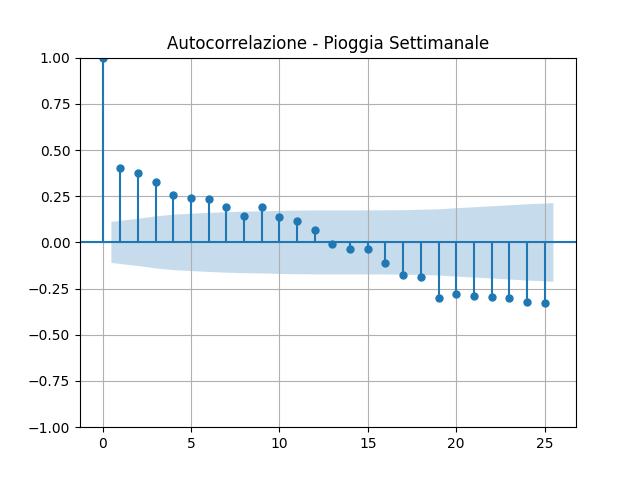
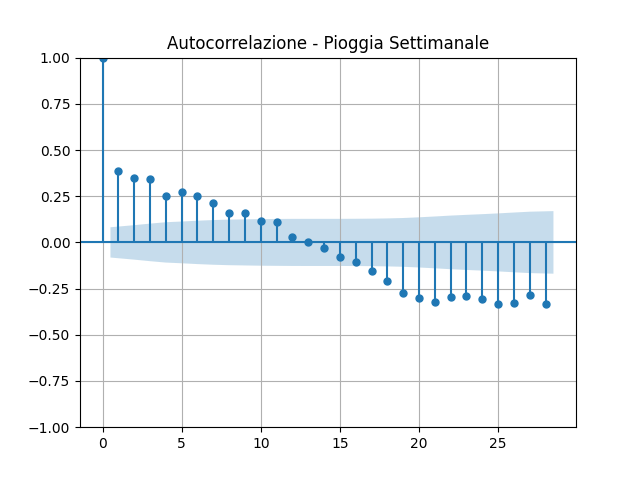
change docs

diff --git a/src/main.py b/src/main.py
@@ -38,13 +38,13 @@ trainy = torch.FloatTensor(trainy.squeeze())
 
 set_seed(42)
 model = NeuralForecaster()
-#model = train_model(model, trainX, trainy)
+model = train_model(model, trainX, trainy)
 # Predizione sui dati di training
-#train_pred = model(trainX).detach().numpy()
+train_pred = model(trainX).detach().numpy()
 # Forecasting ricorsivo
-#forecastNN = recursive_forecast(model, trainX[-1], len(test))
+forecastNN = recursive_forecast(model, trainX[-1], len(test))
 # Plot dei risultati
-#plot_results(forecastNN, test)
+plot_results(forecastNN, test)
 # Valutazione
 print("NN Accuracy: ")
 #print(forecast_accuracy(forecastNN, test))
@@ -67,5 +67,5 @@ plot_xgb_forecast(test, forecastXGB)
 print("XGBoost Accuracy: ")
 print(forecast_accuracy(forecastXGB, test))
 
-#plot_forecast_comparison(test, forecastStats, forecastNN, forecastXGB)
+plot_forecast_comparison(test, forecastStats, forecastNN, forecastXGB)
 

diff --git a/src/preprocessing.py b/src/preprocessing.py
@@ -8,7 +8,7 @@ from statsmodels.graphics.tsaplots import plot_acf
 def load_and_plot_csv(path):
     df = pd.read_csv(path)
     plt.figure(figsize=(12,6))
-    for col in df.columns[1:]:  # salta la colonna 'Settimana'
+    for col in df.columns[:]:
         plt.plot(df.index, df[col], label=col)
     plt.title("Pioggia Settimanale per Anno - Emilia-Romagna")
     plt.xlabel("Settimana (1-52)")

diff --git a/docs/forecasting_neurale.md b/docs/forecasting_neurale.md
@@ -1,6 +1,6 @@
 ---
 layout: default
-title: NN-model
+title: RNN
 nav_order: 4
 ---
 # Previsione di Pioggia Settimanale - Rete Neurale (2024)
@@ -37,35 +37,6 @@ NeuralForecaster(
 A partire dalle ultime 52 settimane del set di addestramento, il modello genera previsioni passo-passo per l’intero 
 anno successivo (52 settimane).
 
-### Codice di Implementazione (estratto)
-```
-class NeuralForecaster(nn.Module):
-    def __init__(self, input_size=52):
-        super(NeuralForecaster, self).__init__()
-        self.network = nn.Sequential(
-            nn.Linear(52, 32),
-            nn.ReLU(),
-            nn.Linear(32, 16),
-            nn.ReLU(),
-            nn.Linear(16, 1)
-        )
-
-def train_model(model, X, y, lr=0.0007, n_epochs=1000, batch_size=1):
-    ...
-    # Ottimizzazione e stampa della perdita ogni 100 epoche
-    ...
-
-def recursive_forecast(model, initial_input, n_steps):
-    ...
-    # Forecasting autoregressivo
-    ...
-
-def plot_results(forecast, test):
-    ...
-    # Visualizzazione grafico
-    ...
-```
-
 ### Visualizzazione dei Risultati
 ![NNplot.png](img/NNplot.png)
 
@@ -86,18 +57,12 @@ def plot_results(forecast, test):
 
 
 **Interpretazione**:
-- Il modello presenta un MAPE contenuto, ma superiore rispetto al modello SARIMAX.
+- Il modello prevede molto bene in media: valori vicini a quelli reali (MAPE e ME molto buoni).
 
-- L'RMSE è leggermente più alto rispetto al modello statistico.
+- È ancora timido nei picchi: alcuni salti non vengono seguiti.
 
-- La correlazione 0.30 indica che il modello neurale ha appreso solo parzialmente le dinamiche temporali 
-della serie, suggerendo potenziali margini di miglioramento (es. aumento dati, tuning iperparametri, reti ricorrenti 
-o convoluzionali).
+- La correlazion di 0.30 è  segno che la rete inizia a capire l'andamento, 
+ma non lo segue ancora con decisione.
 
-### Conclusione
 La rete neurale sviluppata ha mostrato una buona capacità di previsione in termini di errore assoluto, 
 ma una correlazione temporale più debole rispetto al modello SARIMAX.
-Possibili miglioramenti futuri includono:
-- Ottimizzazione dell’architettura e dei parametri, 
-- Utilizzo di modelli più adatti alle serie temporali (es. LSTM, GRU), 
-- Data augmentation o arricchimento con variabili esogene (meteo, temperatura, etc).

diff --git a/docs/forecasting_statistico.md b/docs/forecasting_statistico.md
@@ -1,17 +1,9 @@
 ---
 layout: default
-title: stats-model
+title: SARIMAX
 nav_order: 3
 ---
 # Previsione di Pioggia Settimanale - Modello SARIMAX (2024)
-
-## Obiettivo del Progetto
-
-Questo progetto ha l'obiettivo di prevedere la quantità settimanale di pioggia in millimetri per l'anno 2024
-tramite l'uso di un modello **SARIMAX** (Seasonal AutoRegressive Integrated Moving Average with eXogenous regressors).
-La previsione si basa su dati storici e include la componente stagionale su base annuale (52 settimane).
-
----
 
 ## Teoria del Modello SARIMAX
 
@@ -47,7 +39,6 @@ import matplotlib.pyplot as plt
 def run_sarima(train, test, order=(0, 0, 0), seasonal_order=(1, 1, 0, 52)):
     model = SARIMAX(train, order=order, seasonal_order=seasonal_order)
     fit = model.fit()
-    pred_in_sample = fit.predict(0, len(train))
     forecast = fit.forecast(steps=len(test))
 
     plt.plot(test, label="actual")
@@ -90,13 +81,5 @@ Il RMSE suggerisce che l’errore assoluto medio quadratico è moderato.
 Il valore di correlazione di circa 0.46 implica una correlazione discreta tra valori previsti e osservati,
 ma indica che c'è spazio per migliorare la coerenza temporale del modello.
 
-### Conclusione
 Il modello SARIMAX applicato ha dimostrato una buona capacità di previsione delle precipitazioni settimanali, 
-specialmente nel cogliere la componente stagionale. Ulteriori miglioramenti potrebbero essere ottenuti:
-
-Ottimizzando i parametri del modello (p, d, q, ecc.),
-
-Introducendo variabili esogene (come temperatura o umidità),
-
-Applicando tecniche di ensemble learning o reti neurali ricorrenti (RNN).
-
+specialmente nel cogliere la componente stagionale.

diff --git a/docs/forecasting_decision_tree.md b/docs/forecasting_decision_tree.md
@@ -1,6 +1,6 @@
 ---
 layout: default
-title: XGBoost-model
+title: XGBoost
 nav_order: 5
 ---
 # Previsione di Pioggia Settimanale - XGBoost (2024)
@@ -71,18 +71,8 @@ print(forecast_accuracy(forecast, test))
 **Interpretazione**:
 - Il MAPE è leggermente superiore rispetto a SARIMAX e RNN, suggerendo minore precisione relativa.
 
-- RMSE e MAE sono i più alti tra i tre modelli analizzati.
+- La correlazione di 0.35 segnala una media capacità del modello di seguire l’andamento temporale dei dati.
 
-- La correlazione di 0.20 segnala una bassa capacità del modello di seguire l’andamento temporale dei dati, 
-anche se la struttura degli errori è relativamente bilanciata.
-
-### Conclusione
 Il modello XGBoost è potente ma in questo caso mostra prestazioni inferiori rispetto al modello SARIMAX 
 e alla rete neurale, soprattutto per quanto riguarda la coerenza temporale. Tuttavia, resta utile come baseline 
 o in combinazione con altri modelli:
-
-- Potenziale di miglioramento con tuning degli iperparametri,
-
-- Possibilità di includere variabili esogene o tecniche ensemble,
-
-- Alternativa interessante per combinare capacità predittive non lineari e flessibilità.

diff --git a/docs/conclusions.md b/docs/conclusions.md
@@ -15,13 +15,13 @@ Di seguito un confronto visivo delle previsioni:
 
 ---
 
-## 📈 Risultati Principali
+## Risultati Principali
 
-| Modello          | MAPE (%) | MAE (mm) | RMSE (mm) | Corr     |
-|------------------|----------|----------|-----------|----------|
-| **SARIMAX**      | **1.93** | 8.63     | 11.42     | **0.46** |
-| **Neural Net**   | 2.31     | 10.25    | 12.98     | 0.17     |
-| **XGBoost**      | 2.94     | 10.60    | 13.54     | 0.18     |
+| Modello          | MAPE (%) | MAE (mm) | RMSE (mm)   | Corr     |
+|------------------|----------|----------|-------------|----------|
+| **SARIMAX**      | 1.93     | **8.63** | **11.42**   | **0.46** |
+| **Neural Net**   | **1.90** | 8.98     | 11.92       | 0.30     |
+| **XGBoost**      | 2.42     | 8.83     | 11.80       | 0.35     |
 
 ### Osservazioni:
 

diff --git a/docs/preprocessing.md b/docs/preprocessing.md
@@ -35,10 +35,10 @@ Le statistiche ottenute sono:
 | Statistica           | Valore   |
 |----------------------|----------|
 | **Min**              | 0.00 mm  |
-| **Max**              | 55.79 mm |
-| **Media (Mean)**     | 17.29 mm |
-| **Mediana (Median)** | 16.91 mm |
-| **Dev. Standard**    | 11.73 mm |
+| **Max**              | 65.53 mm |
+| **Media (Mean)**     | 17.45 mm |
+| **Mediana (Median)** | 17.34 mm |
+| **Dev. Standard**    | 11.81 mm |
 
 ---
 
@@ -56,8 +56,8 @@ Per l’analisi di serie temporali, è fondamentale verificare se la serie è **
 ### Test di Dickey-Fuller Aumentato (ADF)
 
 ```text
-ADF stats: -5.7437
-P-value: 6.19e-07
+ADF stats: -8.82
+P-value: 1.79e-14
 ```
 
 ### Conclusione:

diff --git a/docs/index.md b/docs/index.md
@@ -61,7 +61,6 @@ I dati sono stati aggregati su base settimanale e pre-processati per garantire c
 
 Per ogni modello:
 
-- I dati vengono strutturati secondo una finestra mobile (`look_back = 52`) per catturare la stagionalità annuale.
 - Le previsioni vengono prodotte **in modo ricorsivo**, settimana dopo settimana, per simulare un utilizzo in tempo reale.
 - Le performance sono valutate con metriche classiche di regressione:
   - **MAE** (Errore Assoluto Medio),
